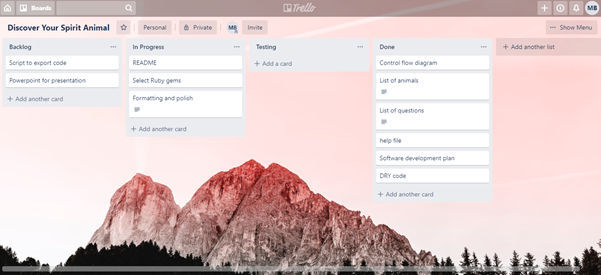
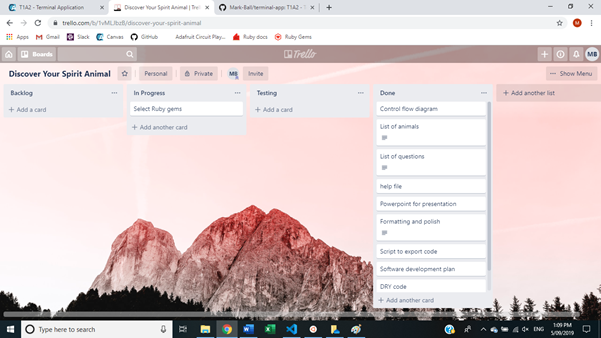
updated implementation plan in README.md

diff --git a/README.md b/README.md
@@ -88,8 +88,28 @@ A version of the control flow diagram can be found in the 'documentation' direct
 Progression through the checklist was tracked using Trello. Status screenshots of the project at various points are presented below.
 
 Day 1 beginning
+
 ![trello_1](./documentation/trello_1.png)
 
+Day 1 end
+
+![trello_2](./documentation/trello_2.png)
+
+Day 2 noon
+
+![trello_3](./documentation/trello_3.png)
+
+Day 2 end
+
+![trello_4](./documentation/trello_4.png)
+
+Day 3 noon
+
+![trello_5](./documentation/trello_5.png)
+
+Day 3 end
+
+![trello_6](./documentation/trello_6.png)
 
 ##Development log
 
